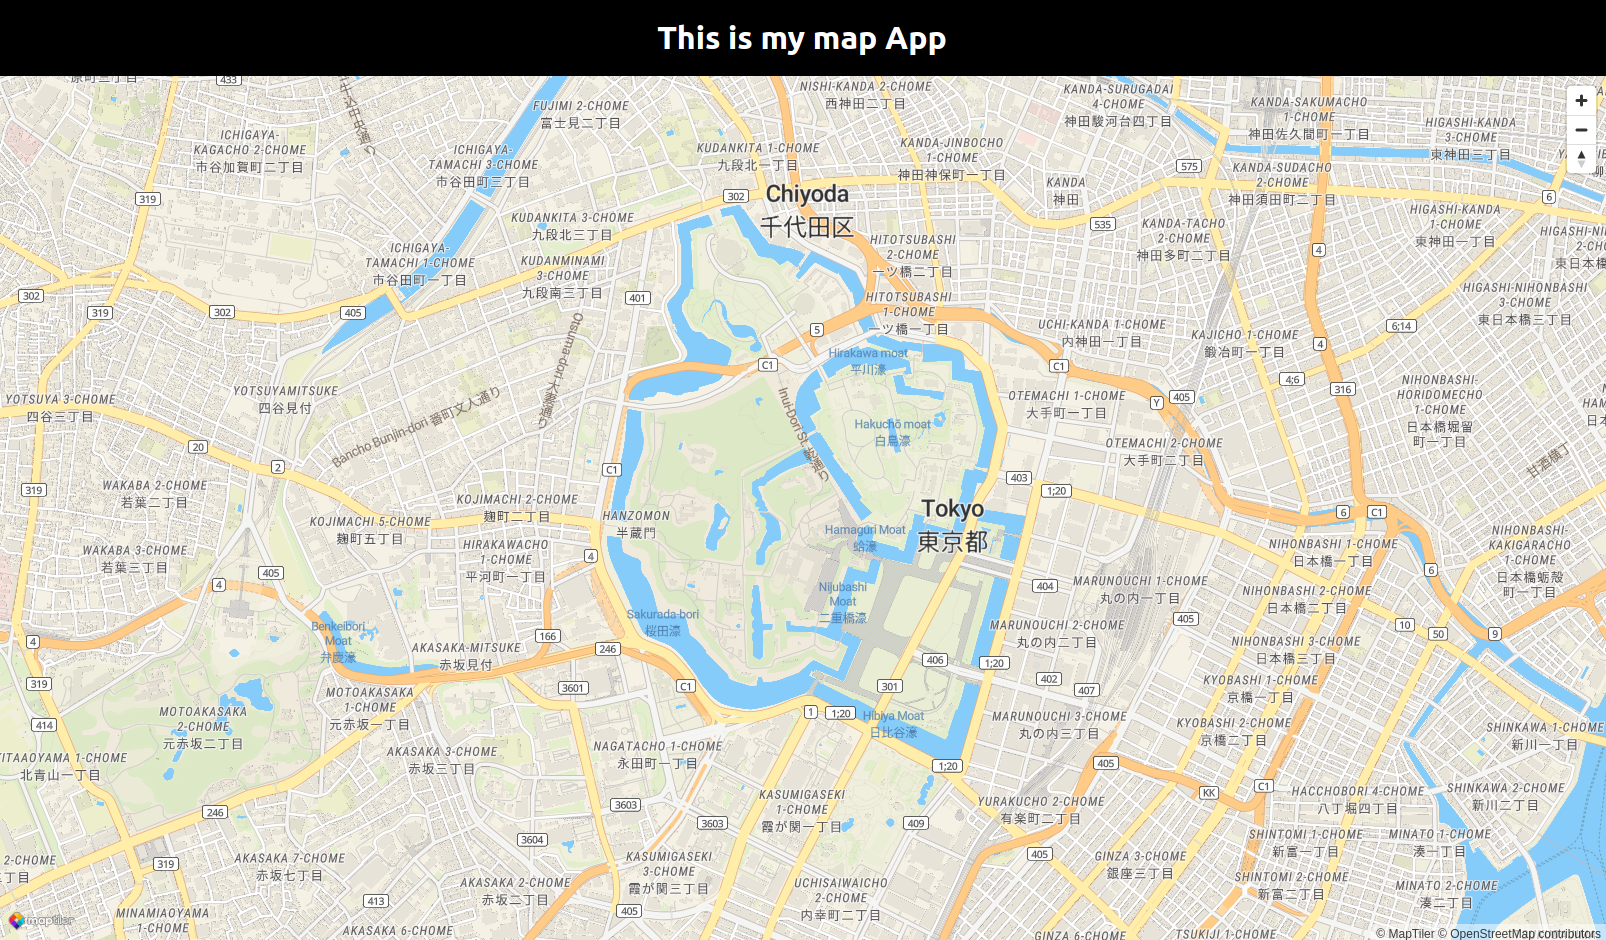
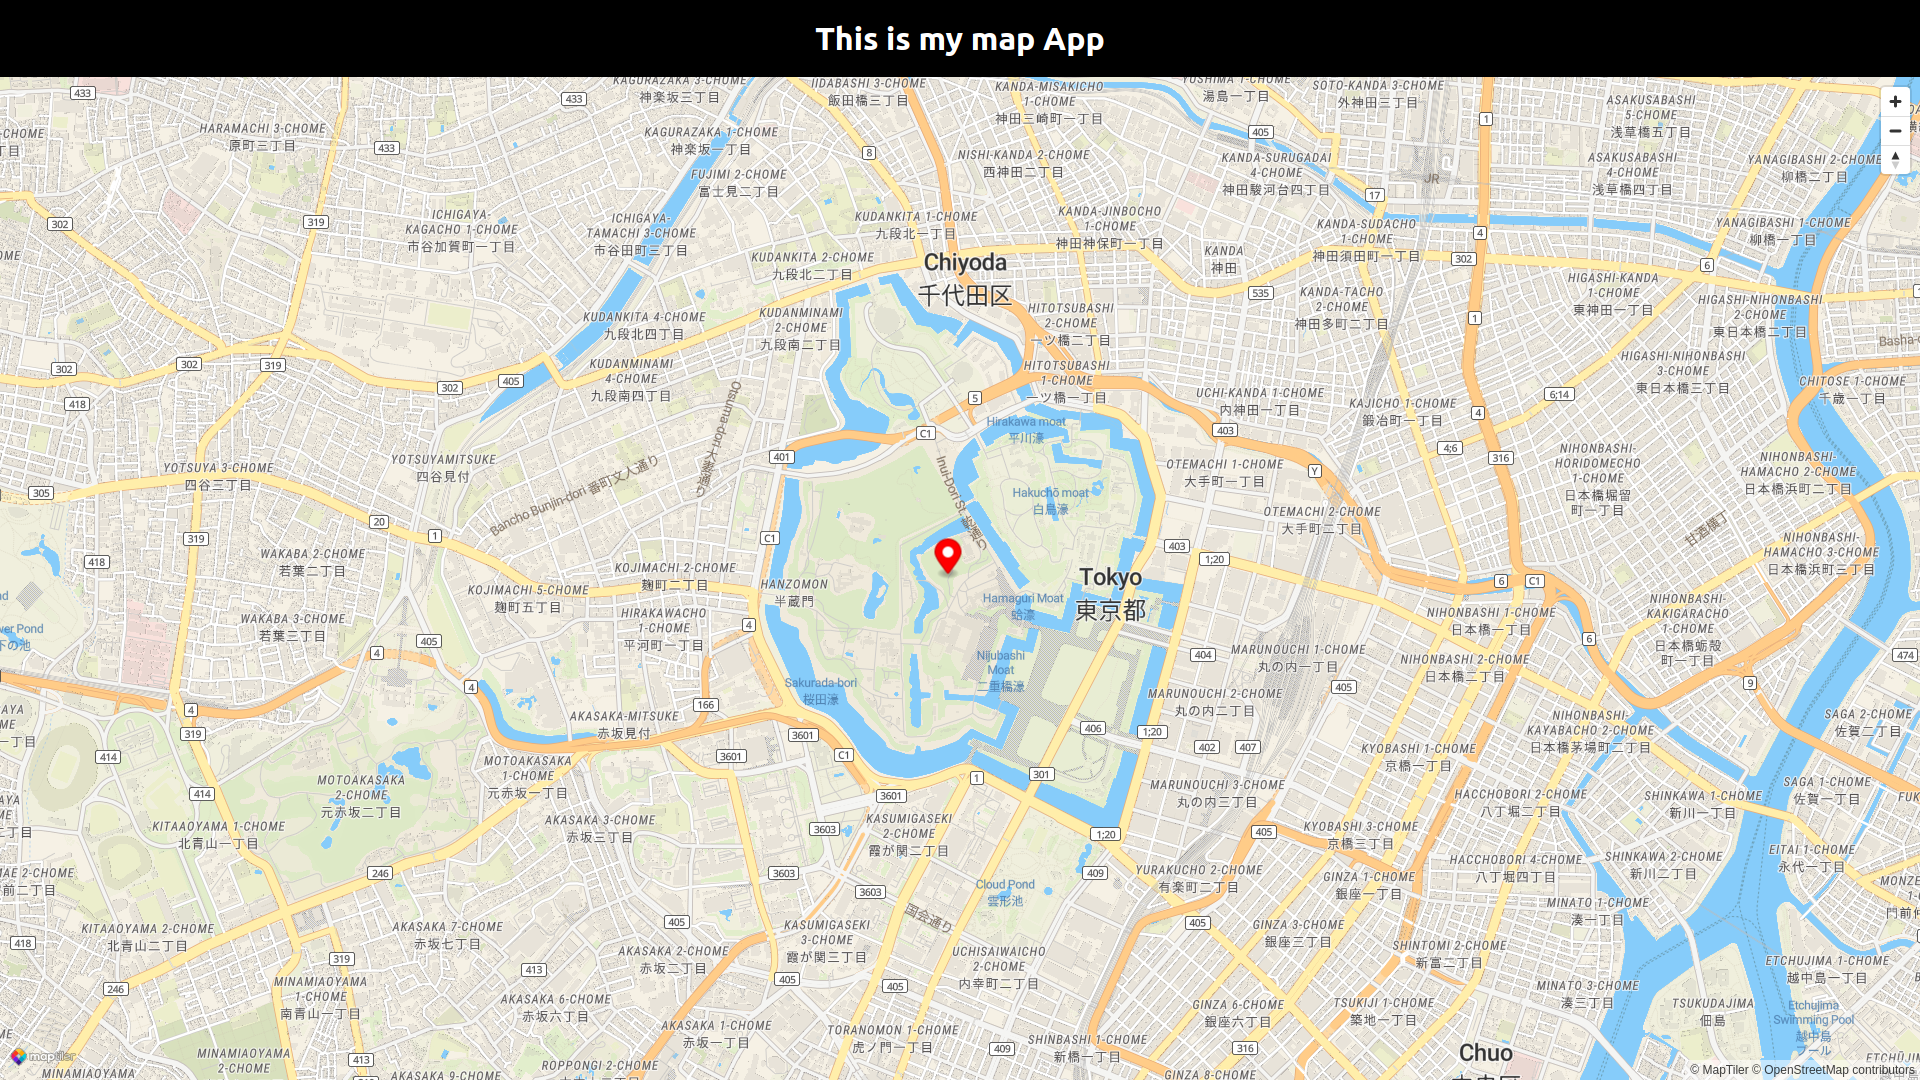
add marker

diff --git a/template/src/components/map.js b/template/src/components/map.js
@@ -20,6 +20,10 @@ export default function Map() {
 
     map.addControl(new maplibregl.NavigationControl(), 'top-right');
 
+    new maplibregl.Marker({color: "#FF0000"})
+      .setLngLat([139.7525,35.6846])
+      .addTo(map);
+
     return () => {
       map.remove();
     }

diff --git a/template/README.md b/template/README.md
@@ -12,6 +12,10 @@ A simple fullscreen map application as an example on how to use MapTiler maps to
 
 <p align="right">(<a href="#top">back to top</a>)</p>
 
+## Step-by-step tutorial - How to display a map in React JS using MapLibre GL JS
+
+Documentation: [How to display a map in React JS using MapLibre GL JS](https://documentation.maptiler.com/hc/en-us/articles/4405444890897-how-to-display-maplibre-gl-js-map-using-react-js?utm_medium=referral&utm_source=github&utm_campaign=2022-05%20%7C%20js%20frameworks%20%7C%20react)
+
 ## Demo
 
 Online demo: https://maptiler.github.io/cra-template-maplibre-gl-js/
@@ -39,6 +43,10 @@ Online demo: https://maptiler.github.io/cra-template-maplibre-gl-js/
 
 Rename or copy the `.env.example` file to `.env`
 
+```
+  cp .env.example .env
+```
+
 Open the `.env` file, :warning: you will need to replace **YOUR_MAPTILER_API_KEY** with your own MapTiler API key.
 
 Your MapTiler account access key is on your MapTiler [Cloud](https://cloud.maptiler.com/account/keys/) account page. 
@@ -58,6 +66,20 @@ You will find your app on address http://localhost:3000/.
 Now you should see the app in your browser.
 
 <p align="right">(<a href="#top">back to top</a>)</p>
+
+### Build
+
+To build for production, run: 
+```
+  npm run build
+``` 
+
+### gh-pages
+
+To deploy the app to the gh-pages branch, run:
+```
+  node gh-pages.js
+```
 
 <!-- LICENSE -->
 ## License

diff --git a/README.md b/README.md
@@ -12,6 +12,10 @@ A simple fullscreen map application as an example on how to use MapTiler maps to
 
 <p align="right">(<a href="#top">back to top</a>)</p>
 
+## Step-by-step tutorial - How to display a map in React JS using MapLibre GL JS
+
+Documentation: [How to display a map in React JS using MapLibre GL JS](https://documentation.maptiler.com/hc/en-us/articles/4405444890897-how-to-display-maplibre-gl-js-map-using-react-js?utm_medium=referral&utm_source=github&utm_campaign=2022-05%20%7C%20js%20frameworks%20%7C%20react)
+
 ## Demo
 
 Online demo: https://maptiler.github.io/cra-template-maplibre-gl-js/
@@ -45,9 +49,17 @@ To create a new react project run in your command-line:
 
 Navigate to the newly created project folder **my-react-map**
 
+```
+  cd my-react-map
+```
+
 ### API KEY
 
 Rename or copy the `.env.example` file to `.env`
+
+```
+  cp .env.example .env
+```
 
 Open the `.env` file, :warning: you will need to replace **YOUR_MAPTILER_API_KEY** with your own MapTiler API key.
 
@@ -62,6 +74,20 @@ To start your local environment run:
 ```
   npm start
 ``` 
+
+### Build
+
+To build for production, run: 
+```
+  npm run build
+``` 
+
+### gh-pages
+
+To deploy the app to the gh-pages branch, run:
+```
+  node gh-pages.js
+```
 
 You will find your app on address http://localhost:3000/.
 
